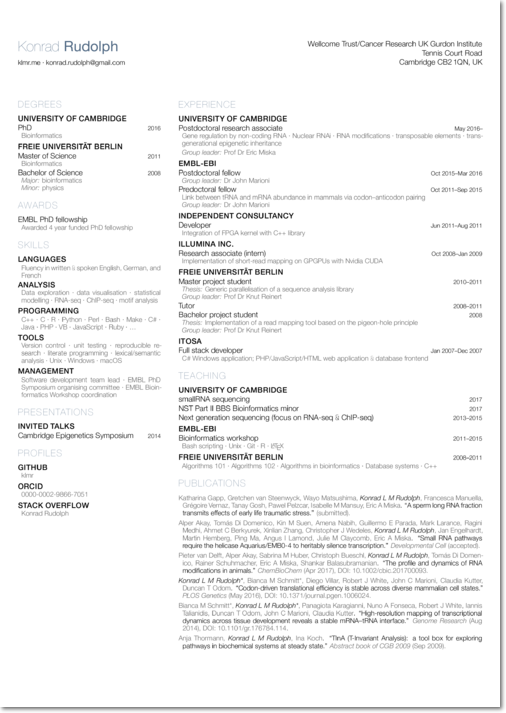
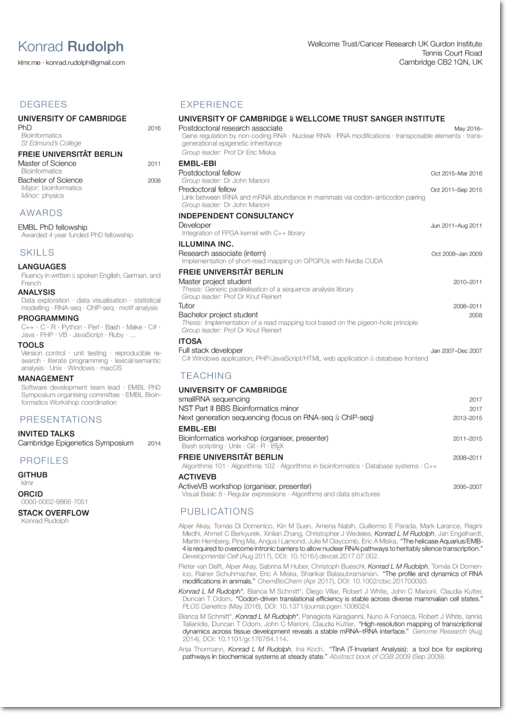
Temporarily disable rejected manuscript

diff --git a/klmr-cv.tex b/klmr-cv.tex
@@ -206,22 +206,22 @@
 % Hence we simply write the references here directly. 🤷  ¯\_(ツ)_/¯
 
 \begin{bibliography}
-    \bibitem{
-        Katharina Gapp,
-        Gretchen van Steenwyck,
-        Wayo Matsushima,
-        \myself{Konrad L M Rudolph},
-        Francesca Manuella,
-        Grégoire Vernaz,
-        Tanay Gosh,
-        Pawel Pelzcar,
-        Isabelle M Mansuy,
-        Eric A Miska
-    }
-    {A sperm long RNA fraction transmits effects of early life traumatic stress}
-    {}
-    {submitted}
-    {}
+    % \bibitem{
+    %     Katharina Gapp,
+    %     Gretchen van Steenwyck,
+    %     Wayo Matsushima,
+    %     \myself{Konrad L M Rudolph},
+    %     Francesca Manuella,
+    %     Grégoire Vernaz,
+    %     Tanay Gosh,
+    %     Pawel Pelzcar,
+    %     Isabelle M Mansuy,
+    %     Eric A Miska
+    % }
+    % {A sperm long RNA fraction transmits effects of early life traumatic stress}
+    % {}
+    % {submitted}
+    % {}
 
     \bibitem{
         Alper Akay,
